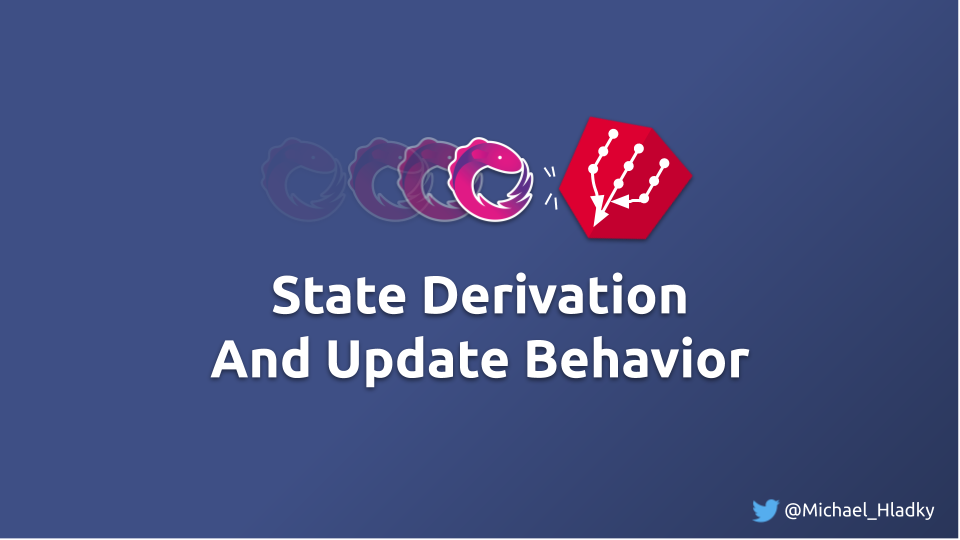
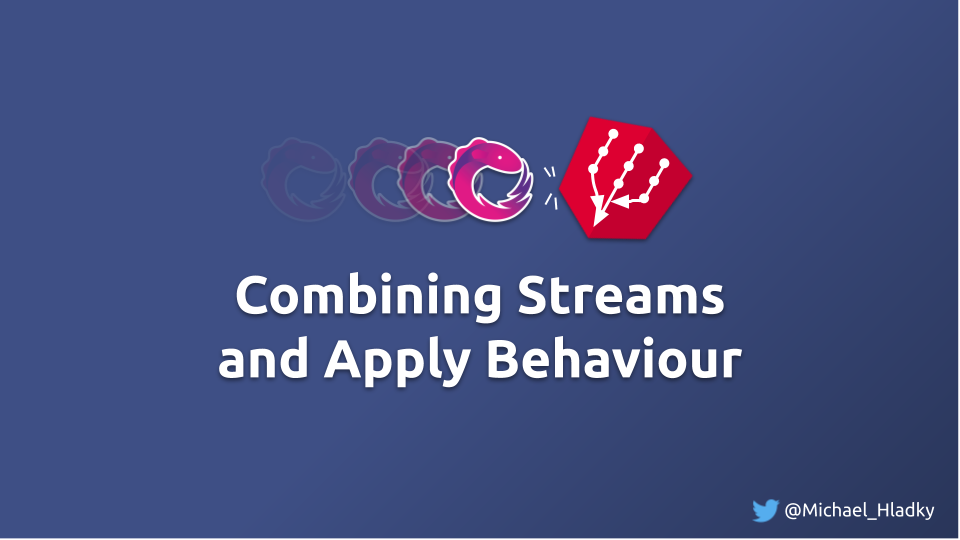
progress

Changed region(s): [[0.2188, 0.5037, 0.7812, 0.7111]]

diff --git a/projects/combining-streams/src/lib/docs/combining-streams.overview.md b/projects/combining-streams/src/lib/docs/combining-streams.overview.md
@@ -1,16 +1,16 @@
-# Combining Stream and Behavior
+# Combining streams and apply Behaviour
 
 ![Reactive Architecture and UX Patterns - Combining Stream and Behavior](./assets/images/Reactive-architecture-and-ux-patterns_angular_combining-streams-and-behavior_michael-hladky.png)
 
 This set of lessons is all about combination operators. 
 As this course focuses on real-life use cases,  
-we will use these operators in the context of state derivation, data fetching and update behavior.
+we will use these operators in the context of state derivation, data fetching, and update behavior.
 
 We will start with some snippets of code people normally use.  
-With our examples we will run into some problems with that simple approaches. 
+With our examples, we will run into some problems with that simple approaches. 
 
 As we go, we learn how to solve them, 
-introduce more robust patterns and finally know all the does and donts of deriving state with combination operators. 
+introduce more robust patterns and finally know all the does and don'ts of deriving state with combination operators. 
 
 ![Reactive Architecture and UX Patterns - Combination Operators](./assets/images/Reactive-architecture-and-ux-patterns_angular_combination-operators-dark_michael-hladky.png)
 
@@ -28,7 +28,7 @@ operators to each other and the similarities in behavior.
 
 ## Combination Operators - Algebraic approach
 
-Another learning too I use, to teach people a more efficient learning of operators is the "Algebraic approach".
+Another learning to I use, to teach people more efficient learning of operators is the "Algebraic approach".
 I named it that way because it borrows concepts and thinking from one of the broad parts of mathematics, [Algebra](https://en.wikipedia.org/wiki/Algebra).
 
 > Literally translated Algebra means "reunion of broken parts".
@@ -40,10 +40,9 @@ The list of broken parts from the above set looks like this:
 
 If we understand every of those "broken parts" we are intuitively able to understand their "reunion", meaning the operators itself.
 
-## Combination Operators - Exercise walk through
+## Combination Operators - Exercise walkthrough
 
-In order to showcase the different capabilities and constraints of the combination operators we will create a very 
-simple Blog application. `Post` & `Comment` are the actual entities which can be fetched from service endpoints.
+In order to showcase the different capabilities and constraints of the combination operators, we will create a very simple Blog application. `Post` & `Comment` are the actual entities which can be fetched from service endpoints.
 The combination operators will be used to combine `Post` & `Comment` to `BlogPost`.
 
 ```Typescript
@@ -77,16 +76,16 @@ Within this set of lessons we will walk through the following exercises:
   - To solve it we refactor the give HTTP service to get more control over when we fetch the data
   - this reviles one of the special behaviours of `forkJoin` and we need to rethink it usage
   - http-service-v1
-- [ ] We learn the difference of `forkJoin` and `combineLatest` 
+- [ ] We learn the difference between `forkJoin` and `combineLatest` 
   - this knowledge helps us to refactor the service and component.
   - combineLatest
 - [ ] As we go we start to introduce more features into our UI
    - again we run into a problem, this time over-rendering.
    - zip
 - [ ] As it was quite technical so far we learn about `withLatestFrom` with a more playful example 
-  - by doing so we understand the concept of `promary` and `secondary` streams
+  - by doing so we understand the concept of `primary` and `secondary` streams
   - withLatestFrom
-- [ ] With a fresh and open mine we think about those concepts in combination with a UX Pattern called `opt-in updates`
+- [ ] With a fresh and open mind, we think about those concepts in combination with a UX Pattern called `opt-in updates`
   - to give a better experience to our users we implement this pattern in our example
   
 

diff --git a/projects/combining-streams/src/lib/exercises/comparison/docs/comparison.exercise.md b/projects/combining-streams/src/lib/exercises/comparison/docs/comparison.exercise.md
@@ -1,11 +1,11 @@
-# Combination operators comparison - Exercise
+# Combination Operators Comparison - Exercise
 
 ## Intro
 
-![Combination operators comparison - screenshot](./assets/images/Reactive-architecture-and-ux-patterns_angular_combination-operators-comparison-solution-screenshot_michael-hladky.png)
-_Combination operators comparison - screenshot_
+![Combination operators comparison - exercise](./assets/images/Reactive-architecture-and-ux-patterns_angular_combination-operators-comparison-solution-screenshot_michael-hladky.png)
+_Combination operators comparison - exercise_
 
-In the start component you will find a screen split into 2 sections.
+In the start component, you will find a screen split into 2 sections.
 Left and right. In the center 
 we have 3 boxed displaying the result of the named strategies combine, withLatest and zip.
 
@@ -70,7 +70,7 @@ Also, 2 Observables are already setup in the `ngAfterViewInit` hook, `clickPosX$
   }
 ```
 
-They are already subscribed to and will forward the with of our click container, and the other Observable logs the  the click position.
+They are already subscribed to and will forward them with our click container, and the other Observable logs the click position.
 
 A small helper function `getSideOfClick` is provided. 
 
@@ -80,7 +80,7 @@ A small helper function `getSideOfClick` is provided.
   }
 ```
 
-It takes the click position and the with of the element and calculates if the click happend ant the right or left section of the container.
+It takes the click position and the with of the element and calculates if the click happened ant the right or left section of the container.
 
 ## Exercise
 

diff --git a/projects/combining-streams/src/lib/exercises/comparison/docs/comparison.solution.md b/projects/combining-streams/src/lib/exercises/comparison/docs/comparison.solution.md
@@ -1,5 +1,8 @@
 # Combination Operators Comparison - Solution
 
+![Combination operators comparison - solution](./assets/images/Reactive-architecture-and-ux-patterns_angular_combination-operators-comparison-solution-screenshot_michael-hladky.png)
+_Combination operators comparison - solution_
+
 To create the different combinations we compose and subscribe to int in the ngAfterViewInit section.
 
 
